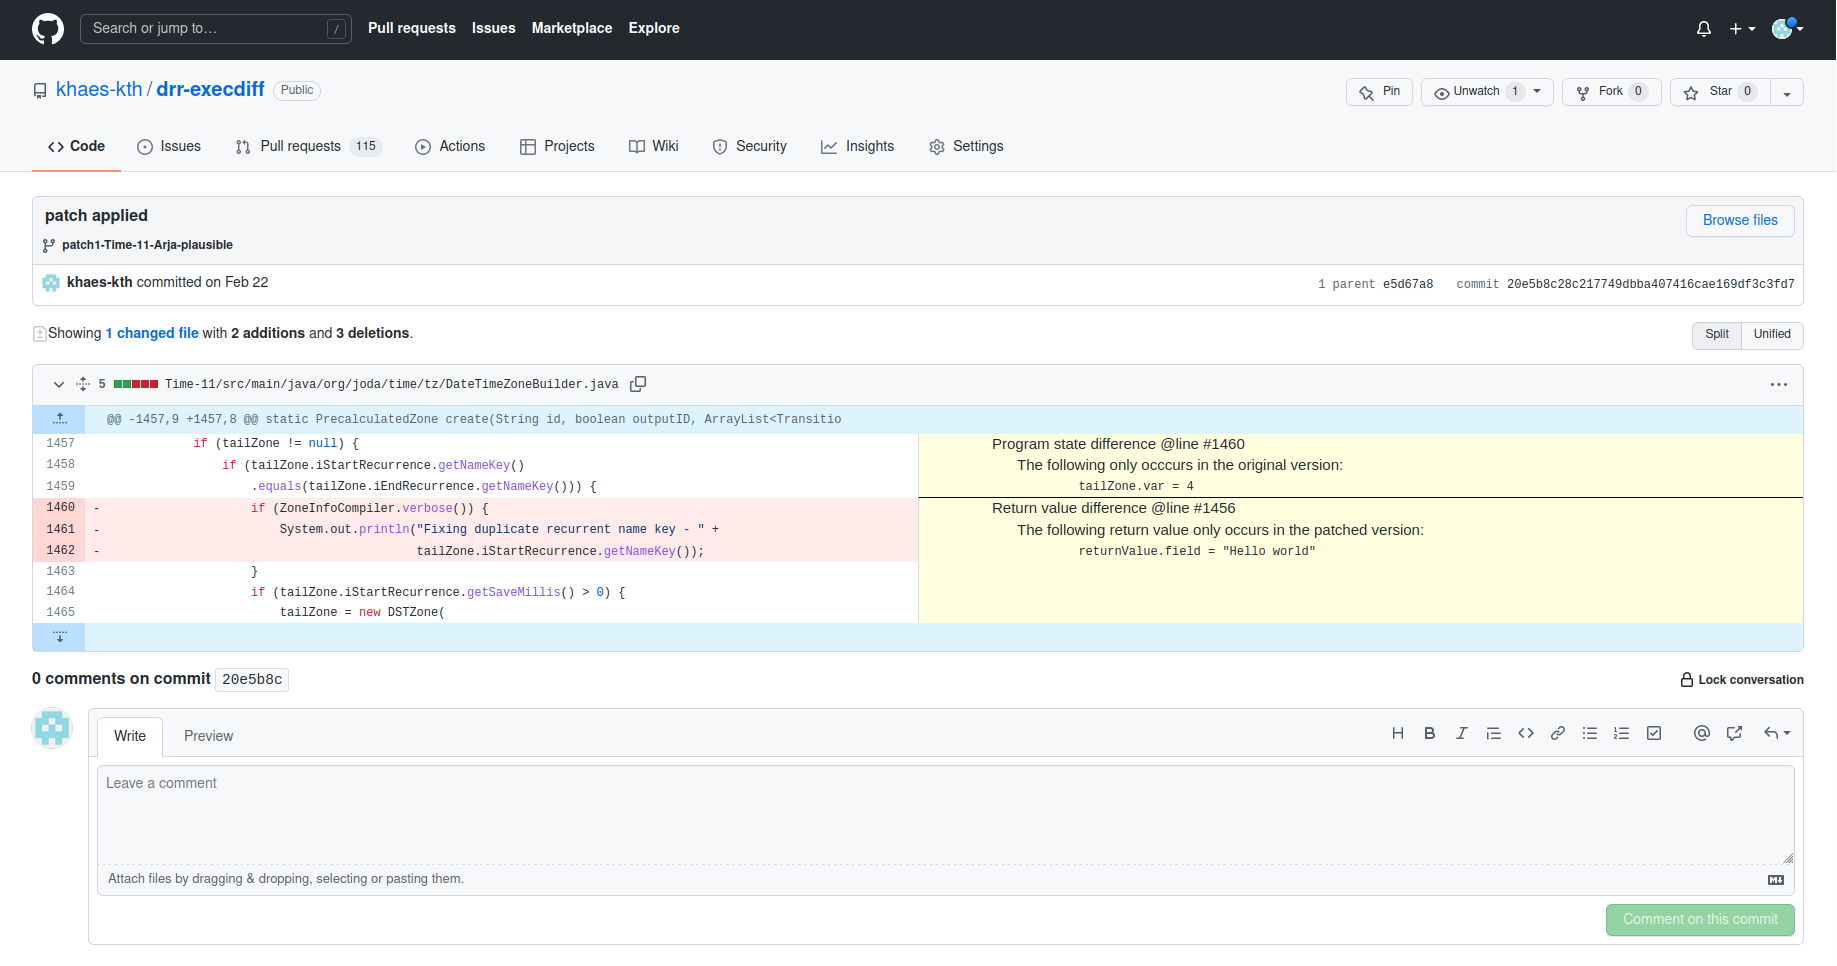
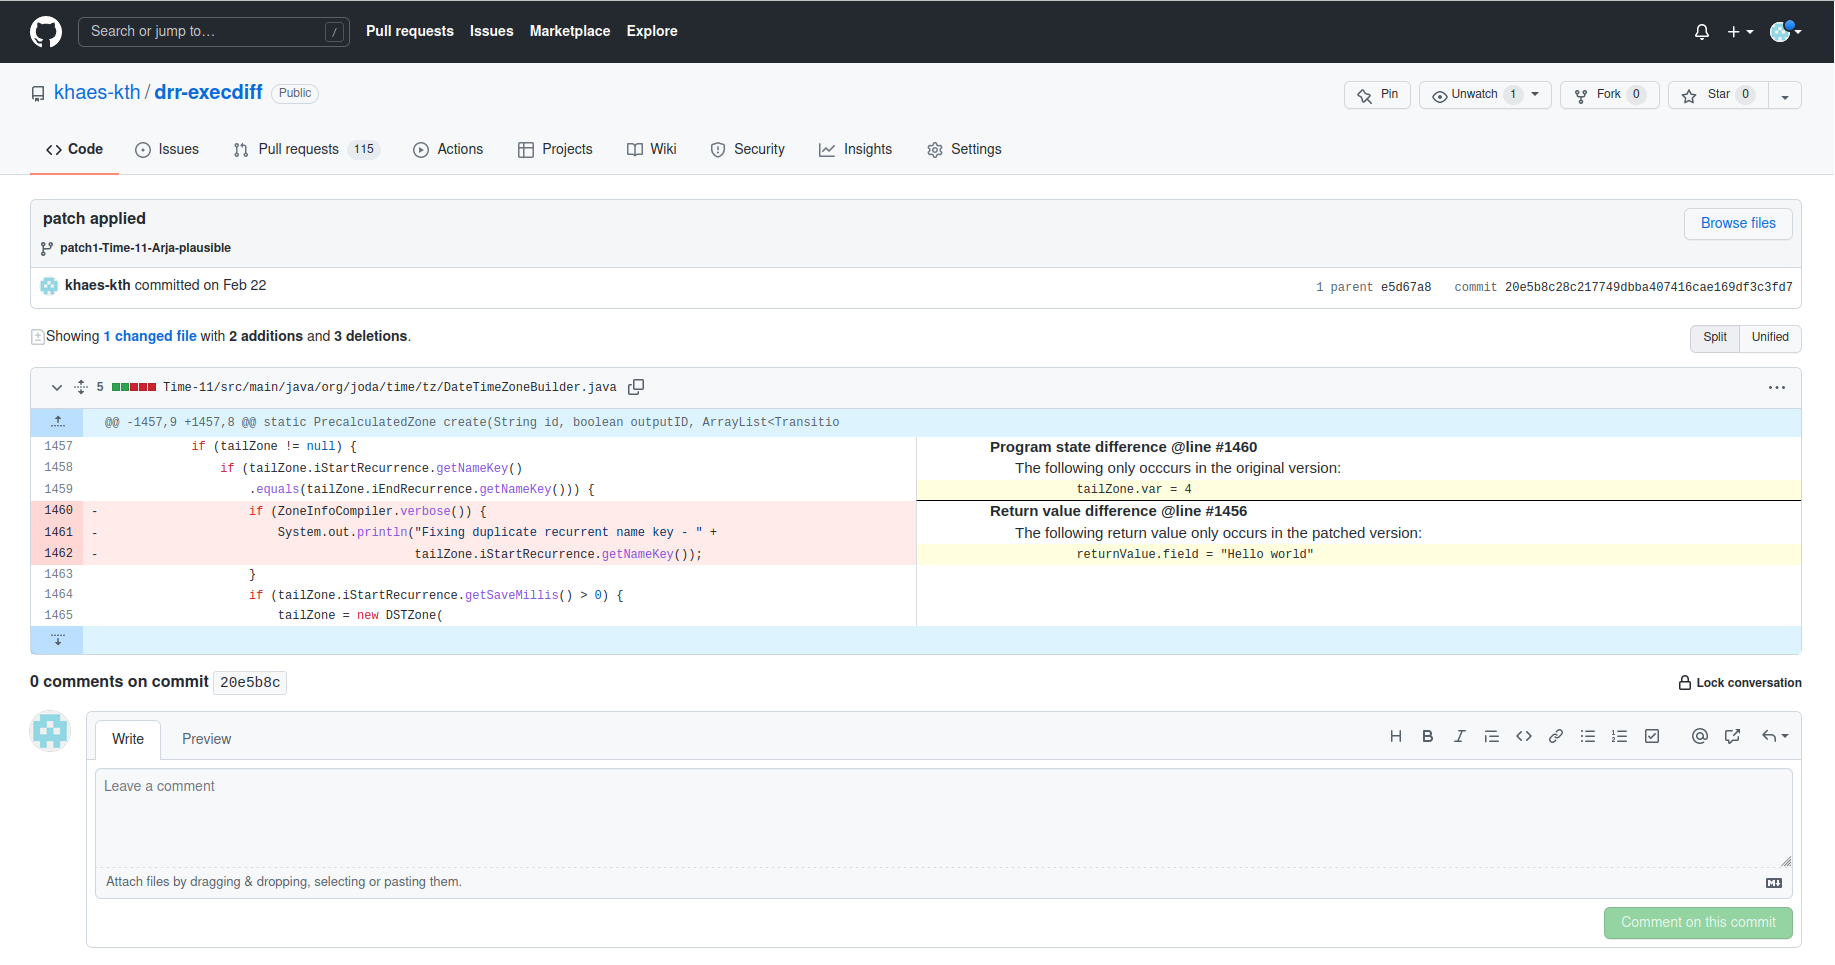
state diff sample modified

diff --git a/state_diff/state_diff_report.html b/state_diff/state_diff_report.html
@@ -478,7 +478,7 @@
   <path d="M15 8a7.002 7.002 0 00-7-7" stroke="currentColor" stroke-width="2" stroke-linecap="round" vector-effect="non-scaling-stroke"></path>
 </svg>
         </p>
-        <p class="ml-1 mb-2 mt-2 color-fg-default" data-show-on-error="">
+        <p class="ml-1 mb-2 mt-2 color-fg-default" data-show-on-error="" hidden="">
           <svg aria-hidden="true" height="16" viewBox="0 0 16 16" version="1.1" width="16" data-view-component="true" class="octicon octicon-alert">
     <path fill-rule="evenodd" d="M8.22 1.754a.25.25 0 00-.44 0L1.698 13.132a.25.25 0 00.22.368h12.164a.25.25 0 00.22-.368L8.22 1.754zm-1.763-.707c.659-1.234 2.427-1.234 3.086 0l6.082 11.378A1.75 1.75 0 0114.082 15H1.918a1.75 1.75 0 01-1.543-2.575L6.457 1.047zM9 11a1 1 0 11-2 0 1 1 0 012 0zm-.25-5.25a.75.75 0 00-1.5 0v2.5a.75.75 0 001.5 0v-2.5z"></path>
 </svg>
@@ -2790,11 +2790,11 @@ open the file in an editor that reveals hidden Unicode characters.
 
     </td>
 
-    <td class="blob-num blob-num-context js-linkable-line-number js-code-nav-line-number js-blob-rnum" data-line-number="" style="background-color: #ffffe0" id="diff-c95cfe24bb7fd0a7fded252c0783a71e1993173b3716455eeb550c749abc1044R1457"></td>
+    <td class="blob-num blob-num-context js-linkable-line-number js-code-nav-line-number js-blob-rnum" data-line-number="" id="diff-c95cfe24bb7fd0a7fded252c0783a71e1993173b3716455eeb550c749abc1044R1457"></td>
 
-    <td data-split-side="right" data-lock-side-selection="" style="background-color: #ffffe0" class="code-review blob-code blob-code-context js-file-line">
+    <td data-split-side="right" data-lock-side-selection="" class="code-review blob-code blob-code-context js-file-line">
          
-      <span data-code-marker=" " class="blob-code-inner blob-code-marker js-code-nav-pass" style="font-family: arial; font-size: 15px">Program state difference @line #1460</span>
+      <span data-code-marker=" " class="blob-code-inner blob-code-marker js-code-nav-pass" style="font-family: arial; font-size: 15px; font-weight: bold">Program state difference @line #1460</span>
 
     </td>
 </tr>
@@ -2814,9 +2814,9 @@ open the file in an editor that reveals hidden Unicode characters.
 
     </td>
 
-    <td class="blob-num blob-num-context js-linkable-line-number js-code-nav-line-number js-blob-rnum" data-line-number="" style="background-color: #ffffe0" id="diff-c95cfe24bb7fd0a7fded252c0783a71e1993173b3716455eeb550c749abc1044R1458"></td>
+    <td class="blob-num blob-num-context js-linkable-line-number js-code-nav-line-number js-blob-rnum" data-line-number="" id="diff-c95cfe24bb7fd0a7fded252c0783a71e1993173b3716455eeb550c749abc1044R1458"></td>
 
-    <td data-split-side="right" data-lock-side-selection="" style="background-color: #ffffe0" class="code-review blob-code blob-code-context js-file-line">
+    <td data-split-side="right" data-lock-side-selection="" class="code-review blob-code blob-code-context js-file-line">
          <button data-type="addition" data-path="Time-11/src/main/java/org/joda/time/tz/DateTimeZoneBuilder.java" data-anchor="diff-c95cfe24bb7fd0a7fded252c0783a71e1993173b3716455eeb550c749abc1044" data-position="2" data-side="right" data-line="1458" data-original-line="                 if (tailZone.iStartRecurrence.getNameKey()" aria-label="Add line comment" type="button" data-view-component="true" class="btn-link add-line-comment js-add-line-comment js-add-single-line-comment btn-link">  <svg aria-hidden="true" height="16" viewBox="0 0 16 16" version="1.1" width="16" data-view-component="true" class="octicon octicon-plus">
     <path fill-rule="evenodd" d="M7.75 2a.75.75 0 01.75.75V7h4.25a.75.75 0 110 1.5H8.5v4.25a.75.75 0 11-1.5 0V8.5H2.75a.75.75 0 010-1.5H7V2.75A.75.75 0 017.75 2z"></path>
 </svg>
@@ -2868,9 +2868,9 @@ open the file in an editor that reveals hidden Unicode characters.
 
     </td>
 
-    <td data-line-number="" class="blob-num blob-num-addition js-linkable-line-number js-code-nav-line-number js-blob-rnum" id="diff-c95cfe24bb7fd0a7fded252c0783a71e1993173b3716455eeb550c749abc1044R1460" style="background-color: #ffffe0"></td>
+    <td class="blob-num blob-num-addition js-linkable-line-number js-code-nav-line-number js-blob-rnum" id="diff-c95cfe24bb7fd0a7fded252c0783a71e1993173b3716455eeb550c749abc1044R1460" data-line-number="" style="background-color: white"></td>
 
-    <td data-split-side="right" data-lock-side-selection="" class="code-review blob-code blob-code-addition js-file-line" style="background-color: #ffffe0">
+    <td data-split-side="right" data-lock-side-selection="" class="code-review blob-code blob-code-addition js-file-line" style="background-color: white; font-weight: bold">
          
       <span data-code-marker="" class="blob-code-inner blob-code-marker js-code-nav-pass" style="font-family: arial; font-size: 15px">Return value difference @line #1456</span>
 
@@ -2892,9 +2892,9 @@ open the file in an editor that reveals hidden Unicode characters.
 
     </td>
 
-    <td data-line-number="" style="background-color: #ffffe0" class="blob-num blob-num-addition js-linkable-line-number js-code-nav-line-number js-blob-rnum" id="diff-c95cfe24bb7fd0a7fded252c0783a71e1993173b3716455eeb550c749abc1044R1461"></td>
+    <td data-line-number="" class="blob-num blob-num-addition js-linkable-line-number js-code-nav-line-number js-blob-rnum" id="diff-c95cfe24bb7fd0a7fded252c0783a71e1993173b3716455eeb550c749abc1044R1461" style="background-color: white"></td>
 
-    <td data-split-side="right" data-lock-side-selection="" style="background-color: #ffffe0" class="code-review blob-code blob-code-addition js-file-line">
+    <td data-split-side="right" data-lock-side-selection="" class="code-review blob-code blob-code-addition js-file-line" style="background-color: white">
          
       <span class="blob-code-inner blob-code-marker js-code-nav-pass" data-code-marker="" style="font-family: arial; font-size: 15px">      <span class="">The following return value only occurs in the patched version:</span></span>
 
@@ -2942,9 +2942,9 @@ open the file in an editor that reveals hidden Unicode characters.
 
     </td>
 
-    <td class="blob-num blob-num-context js-linkable-line-number js-code-nav-line-number js-blob-rnum" data-line-number="" style="background-color: #ffffe0" id="diff-c95cfe24bb7fd0a7fded252c0783a71e1993173b3716455eeb550c749abc1044R1462"></td>
+    <td class="blob-num blob-num-context js-linkable-line-number js-code-nav-line-number js-blob-rnum" data-line-number="" id="diff-c95cfe24bb7fd0a7fded252c0783a71e1993173b3716455eeb550c749abc1044R1462" style="background-color: white"></td>
 
-    <td data-split-side="right" data-lock-side-selection="" style="background-color: #ffffe0" class="code-review blob-code blob-code-context js-file-line">
+    <td data-split-side="right" data-lock-side-selection="" class="code-review blob-code blob-code-context js-file-line" style="background-color: white">
          <button data-type="addition" data-path="Time-11/src/main/java/org/joda/time/tz/DateTimeZoneBuilder.java" data-anchor="diff-c95cfe24bb7fd0a7fded252c0783a71e1993173b3716455eeb550c749abc1044" data-position="9" data-side="right" data-line="1462" data-original-line="                     }" aria-label="Add line comment" type="button" data-view-component="true" class="btn-link add-line-comment js-add-line-comment js-add-single-line-comment btn-link">  <svg aria-hidden="true" height="16" viewBox="0 0 16 16" version="1.1" width="16" data-view-component="true" class="octicon octicon-plus">
     <path fill-rule="evenodd" d="M7.75 2a.75.75 0 01.75.75V7h4.25a.75.75 0 110 1.5H8.5v4.25a.75.75 0 11-1.5 0V8.5H2.75a.75.75 0 010-1.5H7V2.75A.75.75 0 017.75 2z"></path>
 </svg>
@@ -2969,9 +2969,9 @@ open the file in an editor that reveals hidden Unicode characters.
 
     </td>
 
-    <td class="blob-num blob-num-context js-linkable-line-number js-code-nav-line-number js-blob-rnum" data-line-number="" style="background-color: #ffffe0" id="diff-c95cfe24bb7fd0a7fded252c0783a71e1993173b3716455eeb550c749abc1044R1463"></td>
+    <td class="blob-num blob-num-context js-linkable-line-number js-code-nav-line-number js-blob-rnum" data-line-number="" id="diff-c95cfe24bb7fd0a7fded252c0783a71e1993173b3716455eeb550c749abc1044R1463" style="background-color: white"></td>
 
-    <td data-split-side="right" data-lock-side-selection="" style="background-color: #ffffe0" class="code-review blob-code blob-code-context js-file-line">
+    <td data-split-side="right" data-lock-side-selection="" class="code-review blob-code blob-code-context js-file-line" style="background-color: white">
          <button data-type="addition" data-path="Time-11/src/main/java/org/joda/time/tz/DateTimeZoneBuilder.java" data-anchor="diff-c95cfe24bb7fd0a7fded252c0783a71e1993173b3716455eeb550c749abc1044" data-position="10" data-side="right" data-line="1463" data-original-line="                     if (tailZone.iStartRecurrence.getSaveMillis() &gt; 0) {" aria-label="Add line comment" type="button" data-view-component="true" class="btn-link add-line-comment js-add-line-comment js-add-single-line-comment btn-link">  <svg aria-hidden="true" height="16" viewBox="0 0 16 16" version="1.1" width="16" data-view-component="true" class="octicon octicon-plus">
     <path fill-rule="evenodd" d="M7.75 2a.75.75 0 01.75.75V7h4.25a.75.75 0 110 1.5H8.5v4.25a.75.75 0 11-1.5 0V8.5H2.75a.75.75 0 010-1.5H7V2.75A.75.75 0 017.75 2z"></path>
 </svg>
@@ -2985,9 +2985,9 @@ open the file in an editor that reveals hidden Unicode characters.
 
 
[1 lines of base64/hex data omitted]
-    <td class="blob-num blob-num-context js-linkable-line-number js-code-nav-line-number is-hovered" id="diff-c95cfe24bb7fd0a7fded252c0783a71e1993173b3716455eeb550c749abc1044L1465" data-line-number="1465"></td>
+    <td class="blob-num blob-num-context js-linkable-line-number js-code-nav-line-number" id="diff-c95cfe24bb7fd0a7fded252c0783a71e1993173b3716455eeb550c749abc1044L1465" data-line-number="1465"></td>
 
-    <td data-split-side="left" data-lock-side-selection="" class="code-review blob-code blob-code-context js-file-line js-skip-tagsearch is-hovered">
+    <td data-split-side="left" data-lock-side-selection="" class="code-review blob-code blob-code-context js-file-line js-skip-tagsearch">
         <button data-path="Time-11/src/main/java/org/joda/time/tz/DateTimeZoneBuilder.java" data-anchor="diff-c95cfe24bb7fd0a7fded252c0783a71e1993173b3716455eeb550c749abc1044" data-position="11" data-side="right" data-line="1464" data-original-line="                         tailZone = new DSTZone(" aria-label="Add line comment" type="button" data-view-component="true" class="btn-link add-line-comment js-add-line-comment js-add-single-line-comment btn-link">  <svg aria-hidden="true" height="16" viewBox="0 0 16 16" version="1.1" width="16" data-view-component="true" class="octicon octicon-plus">
     <path fill-rule="evenodd" d="M7.75 2a.75.75 0 01.75.75V7h4.25a.75.75 0 110 1.5H8.5v4.25a.75.75 0 11-1.5 0V8.5H2.75a.75.75 0 010-1.5H7V2.75A.75.75 0 017.75 2z"></path>
 </svg>
@@ -2996,9 +2996,9 @@ open the file in an editor that reveals hidden Unicode characters.
 
     </td>
 
-    <td class="blob-num blob-num-context js-linkable-line-number js-code-nav-line-number js-blob-rnum" data-line-number="" id="diff-c95cfe24bb7fd0a7fded252c0783a71e1993173b3716455eeb550c749abc1044R1464" style="background-color: #ffffe0"></td>
+    <td class="blob-num blob-num-context js-linkable-line-number js-code-nav-line-number js-blob-rnum" data-line-number="" id="diff-c95cfe24bb7fd0a7fded252c0783a71e1993173b3716455eeb550c749abc1044R1464" style="background-color: white"></td>
 
-    <td data-split-side="right" data-lock-side-selection="" style="background-color: #ffffe0" class="code-review blob-code blob-code-context js-file-line">
+    <td data-split-side="right" data-lock-side-selection="" class="code-review blob-code blob-code-context js-file-line" style="background-color: white">
          <button data-type="addition" data-path="Time-11/src/main/java/org/joda/time/tz/DateTimeZoneBuilder.java" data-anchor="diff-c95cfe24bb7fd0a7fded252c0783a71e1993173b3716455eeb550c749abc1044" data-position="11" data-side="right" data-line="1464" data-original-line="                         tailZone = new DSTZone(" aria-label="Add line comment" type="button" data-view-component="true" class="btn-link add-line-comment js-add-line-comment js-add-single-line-comment btn-link">  <svg aria-hidden="true" height="16" viewBox="0 0 16 16" version="1.1" width="16" data-view-component="true" class="octicon octicon-plus">
     <path fill-rule="evenodd" d="M7.75 2a.75.75 0 01.75.75V7h4.25a.75.75 0 110 1.5H8.5v4.25a.75.75 0 11-1.5 0V8.5H2.75a.75.75 0 010-1.5H7V2.75A.75.75 0 017.75 2z"></path>
 </svg>
@@ -3299,16 +3299,30 @@ open the file in an editor that reveals hidden Unicode characters.
       <code><span class="border rounded p-1 mr-2">ctrl .</span></code>
     </div>
 
-    <include-fragment role="menuitem" aria-label="Loading">
-      <svg style="box-sizing: content-box; color: var(--color-icon-primary);" width="32" height="32" viewBox="0 0 16 16" fill="none" data-view-component="true" class="my-6 mx-auto d-block anim-rotate">
-  <circle cx="8" cy="8" r="7" stroke="currentColor" stroke-opacity="0.25" stroke-width="2" vector-effect="non-scaling-stroke"></circle>
-  <path d="M15 8a7.002 7.002 0 00-7-7" stroke="currentColor" stroke-width="2" stroke-linecap="round" vector-effect="non-scaling-stroke"></path>
-</svg>
-    </include-fragment>
+    
+<fuzzy-list>
+  <div class="select-menu-filters border-bottom p-2">
+    <input type="text" id="saved-reply-filter-field-f1286214" class="form-control js-saved-reply-filter-input width-full" placeholder="Filter replies…" aria-label="Choose a saved reply" autofocus="">
+  </div>
+
+  <div class="select-menu-list">
+    <ul role="none">
+
+    </ul>
+
+    <a href="https://github.com/settings/replies?return_to=1" class="select-menu-item select-menu-action" role="menuitem">
+      <span class="select-menu-item-text">Create a new saved reply…</span>
+    </a>
+  </div>
+  <!-- Temporary workaround for .select-menu-item having no border because they
+       are all .select-menu-list:last-child .select-menu-item:last-child -->
+  <div class="select-menu-list"></div>
+</fuzzy-list>
+
 
   </details-menu>
 </details>
-<primer-tooltip for="saved-reply-new_commit_comment_field" data-direction="sw" data-type="description" data-view-component="true" class="js-modifier-label-key hx_tooltip" id="tooltip-1649007345495-8780" role="tooltip" hidden="">Add saved reply</primer-tooltip>
+<primer-tooltip for="saved-reply-new_commit_comment_field" data-direction="sw" data-type="description" data-view-component="true" class="js-modifier-label-key hx_tooltip" id="tooltip-1649007345495-8780" role="tooltip" style="left: 1611.33px; top: 45.5px;" hidden="">Add saved reply</primer-tooltip>
 
 
       </div>
